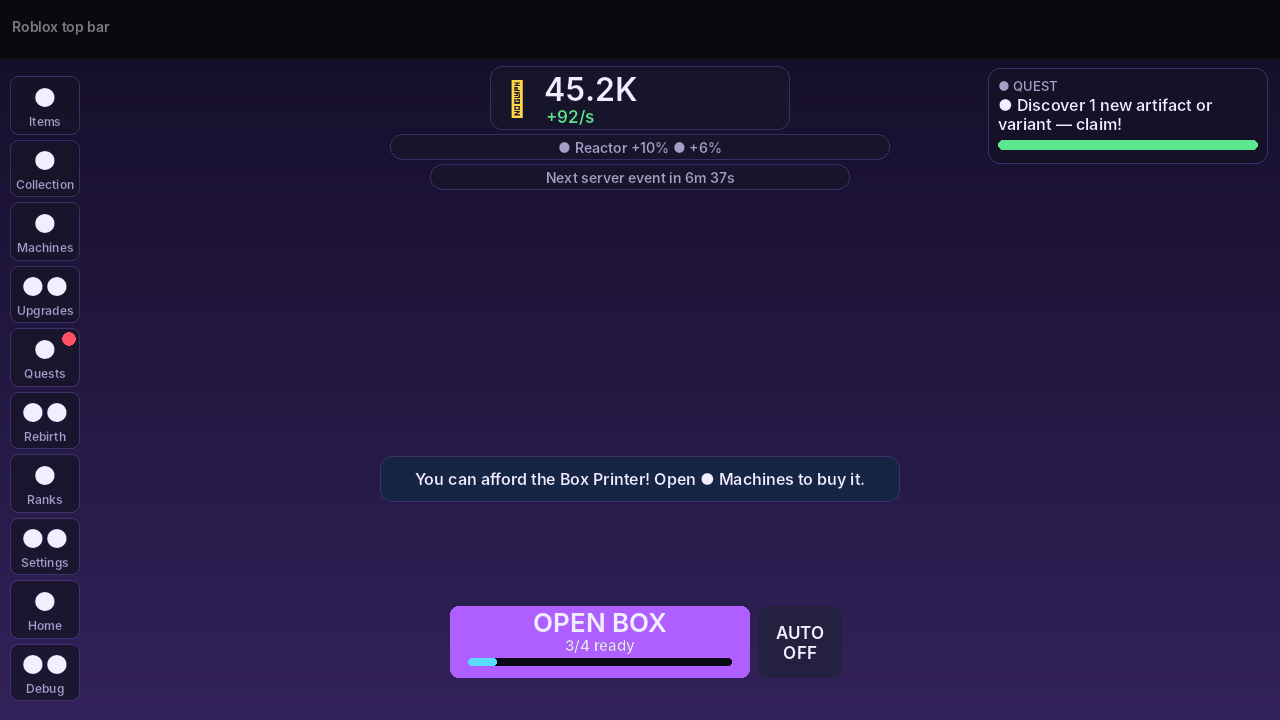
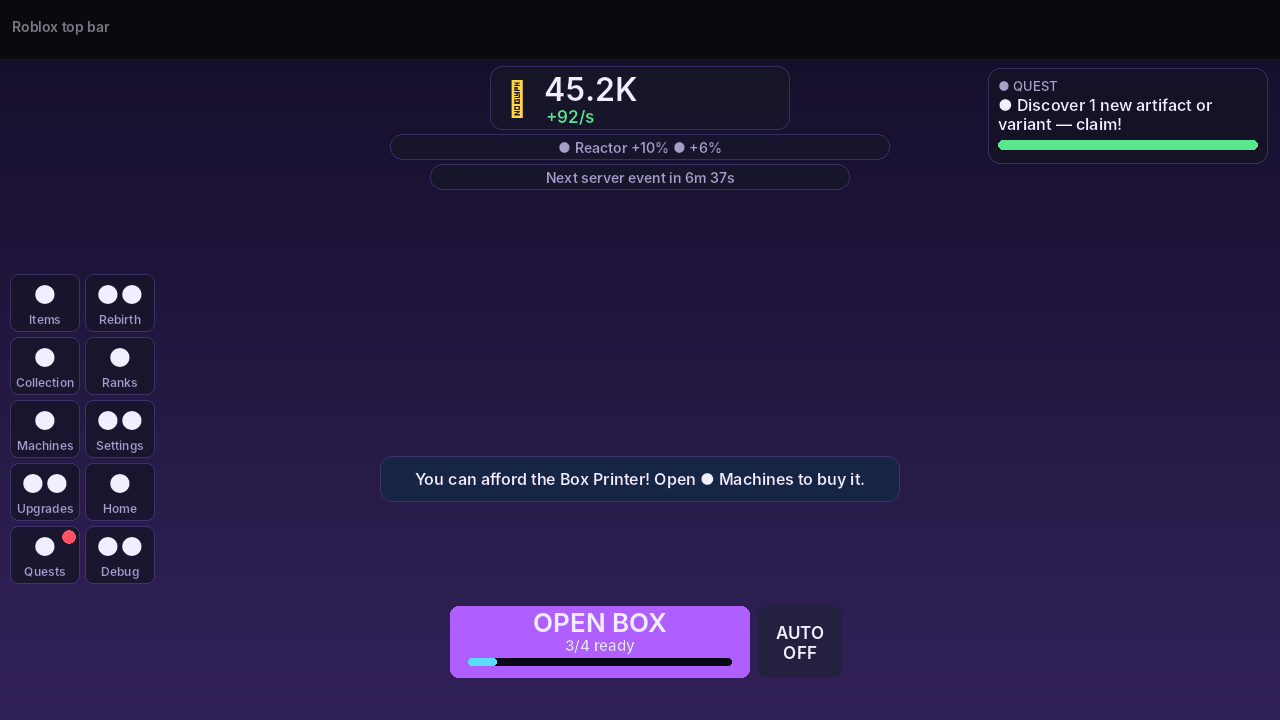
Document offline progress, daily rewards, analytics and audit fixes
README, ECONOMY and TESTING describe the new features, the 113 tests and
the real-engine fixes; preview images refreshed (two-column menu, daily
rewards, welcome-back summary); export_ui gains the new scenes.

Claude-Session: https://claude.ai/code/session_014dmHoEkqmr5VMjE5wmFv1x

Changed region(s): [[0.0, 0.1222, 0.125, 0.9778]]

diff --git a/README.md b/README.md
@@ -12,7 +12,9 @@ completa la colección y haz **rebirth** para obtener bonificaciones permanentes
 3. Pulsa **Play** (F5). El mundo, las parcelas y la interfaz se construyen al arrancar.
 
 En Studio el botón 🛠 **Debug** del menú izquierdo da Energy, avanza el tiempo, regala
-artefactos o reinicia tus datos para probar la progresión en segundos.
+artefactos, simula 2 h fuera del juego, adelanta la recompensa diaria o reinicia tus datos
+para probar la progresión en segundos. Las partidas de Studio guardan en almacenes aparte, así
+que nada de esto afecta a los jugadores reales.
 
 Para publicar la experiencia: [docs/PUBLISHING.md](docs/PUBLISHING.md).
 
@@ -22,7 +24,8 @@ Para publicar la experiencia: [docs/PUBLISHING.md](docs/PUBLISHING.md).
 `tools/preview` (no es una captura de Roblox). Más: [el mundo](docs/images/world.png),
 [artefactos](docs/images/artifacts.png),
 [máquinas](docs/images/machines.png), interfaz en [PC](docs/images/ui_hud.png),
-[inventario](docs/images/ui_inventory.png), [probabilidades](docs/images/ui_odds.png) y
+[inventario](docs/images/ui_inventory.png), [probabilidades](docs/images/ui_odds.png),
+[recompensa diaria](docs/images/ui_daily.png), [bienvenida](docs/images/ui_welcome.png) y
 [móvil](docs/images/ui_phone.png) (maqueta aproximada: los emoji se ven como círculos).*
 
 ## Qué incluye
@@ -35,11 +38,13 @@ Para publicar la experiencia: [docs/PUBLISHING.md](docs/PUBLISHING.md).
 | Máquinas | Starter Fabricator (gratis), Box Printer (automática), Overclocker, Fusion Chamber, Lucky Fabricator y Void Forge (tras rebirth); todas mejorables |
 | Fábrica | Parcela por jugador con 6 → 24 pedestales (5 ampliaciones), vitrina con tus hallazgos más raros, cartel con tu producción |
 | Progresión | Mejoras de suerte, velocidad y almacén; misiones; colección con bonus permanente; rebirth con tienda de ventajas (Void Shards) |
+| Volver a jugar | Ganancias sin conexión (25 % de la producción, hasta 8 h, con resumen al entrar) y recompensa diaria con racha de 7 días y *Daily Crates* |
 | Claridad | Etiquetas de producción sobre cada pedestal, enlaces de neón entre artefactos que se potencian/drenan, vista previa de Energy/s al colocar, probabilidades reales visibles |
 | Eventos | Evento de servidor cada 30 min (Luck Storm, Overdrive, Rapid Fabrication, Mutation Rain) y eventos de temporada con artefactos propios |
 | Multijugador | Hasta 8 jugadores, visitas a otras fábricas, clasificaciones del servidor y globales, anuncios de hallazgos extraordinarios |
 | Guardado | DataStore con bloqueo de sesión, reintentos, validación antes de guardar y guardado al cerrar el servidor |
 | Seguridad | Todo se calcula en el servidor; una única RemoteFunction con validación de argumentos y límite de frecuencia por acción |
+| Analíticas | Embudo de primera sesión, fuentes y gastos de Energy/Shards, rebirths y racha diaria en el panel de Analytics de Roblox |
 | Interfaz | Adaptada a PC y móvil, animaciones, consejos de inicio, ajustes de sonido y de efectos visuales |
 
 ## Cómo se juega
@@ -50,6 +55,8 @@ Para publicar la experiencia: [docs/PUBLISHING.md](docs/PUBLISHING.md).
 - Los artefactos con efecto de vecindad potencian (o drenan) los pedestales de al lado: la
   posición importa. Al colocar, cada pedestal muestra cuánta Energy/s ganarías ahí.
 - 📖 **Collection → Odds** muestra las probabilidades exactas con tu suerte actual.
+- 📜 **Quests → Daily**: recoge la recompensa diaria; el punto rojo del menú avisa cuando está
+  lista.
 
 ## Estructura
 
@@ -60,7 +67,7 @@ Para publicar la experiencia: [docs/PUBLISHING.md](docs/PUBLISHING.md).
 | `src/shared/Visuals` | Modelos procedurales de artefactos y máquinas |
 | `src/server/Services` | Red, datos, mundo, parcelas, sesiones, simulación, clasificaciones, administración |
 | `src/client` | Interfaz, animaciones y controladores |
-| `tests/` | 88 pruebas en Lune con un entorno simulado de Roblox validado contra la API oficial |
+| `tests/` | 113 pruebas en Lune con un entorno simulado de Roblox validado contra la API oficial |
 | `tools/` | Verificación completa, simulador de economía, generador de sonidos, vistas previas de los modelos |
 | `assets/sounds` | 15 efectos de sonido originales listos para subir |
 

diff --git a/docs/TESTING.md b/docs/TESTING.md
@@ -19,17 +19,19 @@ corren en **Lune** con un entorno simulado de Roblox (`tests/mock`):
 Se ejecutan los **scripts reales** del juego: el servidor arranca, los jugadores entran, la
 interfaz se construye y las pruebas pulsan sus botones.
 
-## Cobertura (88 pruebas)
+## Cobertura (113 pruebas)
 
 | Área | Ejemplos |
 | --- | --- |
 | Lógica | Probabilidades normalizadas, prueba estadística de 200 000 tiradas, efectos, mutaciones, fusión, rebirth, misiones, saneado de datos corruptos |
 | Servidor | Arranque, abrir/colocar/producir, compras, rechazo de 13 tipos de peticiones malformadas, límite de frecuencia |
 | Cliente | HUD, botón de abrir con animación, inventario → colocar, las 9 ventanas, tienda, modo automático |
-| Guardado | Reentrar, bloqueo entre servidores, caída de un servidor, fallos transitorios y persistentes, perfil inválido, cierre del servidor, Studio sin API |
+| Guardado | Reentrar, bloqueo entre servidores, caída de un servidor, fallos transitorios y persistentes, perfil inválido, cierre del servidor (también con un guardado en cola detrás de un autoguardado), Studio sin API, almacenes separados para Studio |
 | Efectos y eventos | Etiquetas y enlaces, vista previa, eventos que cambian la producción, catálogo de temporada, máquinas animadas |
 | Seguridad y multijugador | Fuzzing de todas las acciones, peticiones en paralelo, cliente manipulado, 8 jugadores independientes, servidor lleno, visitas, clasificación global |
-| Pulido | Escala y menú en pantalla de móvil, consejos de inicio, ventanas que no se reconstruyen sin cambios, inventario que solo rehace las tarjetas que cambian |
+| Pulido | Escala y menú en pantalla de móvil, consejos de inicio, ventanas que no se reconstruyen sin cambios, inventario que solo rehace las tarjetas que cambian, rescate al caer al vacío |
+| Volver a jugar | Ganancias sin conexión (mínimo, tope, Night Shift, cajas de la impresora, sin pagar dos veces), ventana de bienvenida, racha diaria (seguida, perdida, ciclo de 7 días), *Daily Crates*, aviso al entrar |
+| Analíticas | Embudo de primera sesión en orden y una sola vez, jugadores que vuelven fuera del embudo, eventos de economía agrupados por minuto, rebirth y racha; el emulador valida los argumentos de AnalyticsService |
 
 Prueba de carga (`tools/soak.luau`, 30 minutos simulados, 4 jugadores con la interfaz real):
 0 errores, 375 cajas abiertas, un jugador sale y vuelve a entrar, y el cierre guarda a todos.
@@ -39,6 +41,12 @@ por la capacidad del almacén.
 
 Además: comprobación de tipos con luau-lsp y las definiciones oficiales de Roblox, lint con
 Selene, y el `.rbxl` compilado se abre y cada script se compila con el compilador de Luau.
+
+Una revisión específica buscó fallos que solo aparecerían en el motor real (física,
+replicación, interfaz de Roblox, DataStore real) y se corrigieron los encontrados: IDs de
+usuario de más de 32 bits, toques en pedestales traseros, colores de anillos que podían quedarse
+encendidos, la lista de jugadores tapando la interfaz, carteles de tamaño fijo, datos de Studio
+mezclados con los reales, la tecla Esc, el rescate al caer y una carrera al cerrar el servidor.
 
 ## Lo que NO se ha podido comprobar
 

diff --git a/docs/ECONOMY.md b/docs/ECONOMY.md
@@ -40,3 +40,19 @@ probabilidades se muestran tal cual en *Collection → Odds*.
 - Las cajas de pago cuestan lo mayor entre un precio base y X segundos de la **mejor producción de
   la partida** (no la actual, para que quitar artefactos no abarate las cajas). Así siguen siendo
   una decisión real en cualquier momento de la partida.
+
+## Ganancias sin conexión y recompensa diaria
+
+No entran en el simulador (mide sesiones de juego), así que sus límites se eligieron para que
+ayuden a quien vuelve sin sustituir al juego activo:
+
+- **Sin conexión** (`Economy.Offline*`): al volver, el servidor paga el 25 % de la producción
+  estable (sin eventos ni Void Surge) por el tiempo fuera, con un máximo de 8 h: como mucho
+  2 h de producción activa. Ausencias de menos de 5 min no dan nada (cambios de servidor). La
+  ventaja de rebirth *Night Shift* sube el porcentaje un 10 % por nivel (máximo 75 %). La
+  Box Printer guarda hasta 3 cajas.
+- **Diaria** (`Config/Daily`): 7 días que se repiten; la racha se pierde si se salta un día
+  (UTC). Los días de Energy dan entre 2 y 10 minutos de la producción actual (con mínimo para
+  jugadores nuevos); los días 3 y 7 dan *Daily Crates* (Rare o mejor, probabilidades visibles
+  en *Collection → Odds*).
+
